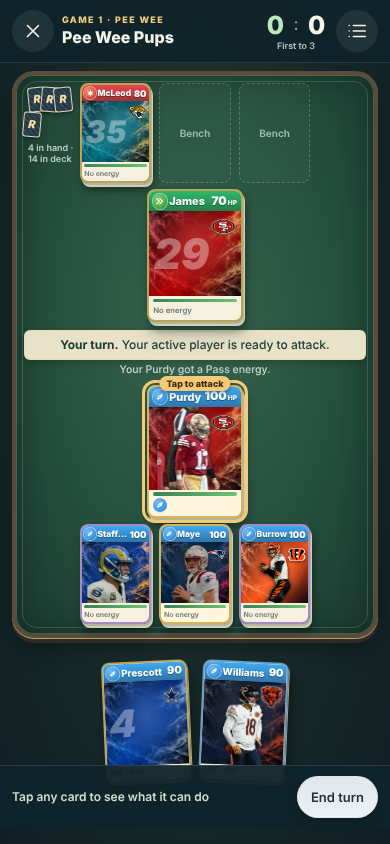
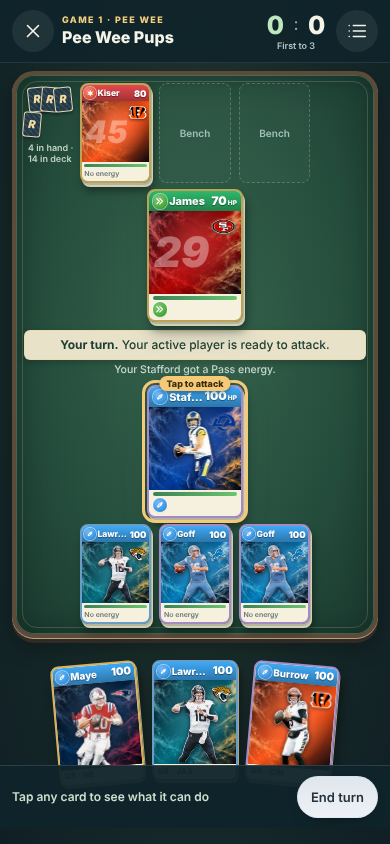
Rivals: Mythic cards on the holographic foil
The highest rarity alone stands on the owner's holographic foil picture,
behind the player (in place of the tinted plasma; team mark, nickname and
streaks kept) and across the card face behind the frame.

Claude-Session: https://claude.ai/code/session_01R9RSfZ7Ej9pPegBL2qV6yU

diff --git a/css/views/dynasty-rarity.css b/css/views/dynasty-rarity.css
@@ -140,15 +140,15 @@
   margin: 1.5cqw .3cqw .8cqw; padding: 2.2cqw 1.5cqw; border-radius: 1cqw;
   background: #fff4d9; box-shadow: inset 0 0 0 .35cqw #aa7d34, 0 .4cqw .5cqw #8f651d30;
 }
-/* Mythic: cosmic artwork continues behind the frame; all rules sit on opaque pearl panels. */
+/* Mythic: the owner's holographic foil (Nov 1 2026) fills the card behind the frame; all rules sit on opaque pearl panels. */
 :where(.v-dynasty, .v-dynasty-battle, .pk-sheet, div.pk-open) .pk-card.pk-rivals-card.r-mythic {
   --card-edge: #675bb0; --card-inner: #c9fff5; --card-shadow: #5442b755; --card-line: #d7d3ff80;
   --card-paper: #252047; --card-panel: #eeeaff; --card-ink: #25213c; --card-muted: #514b6a;
-  --card-scene: url('../../img/rivals/field-mythic.svg');
+  --card-scene: url('../../img/rivals/mythic-holo-v1.webp');
   --card-foil: linear-gradient(120deg, #73d4ff, #d99ce5 13%, #ffc0b0 26%, #ffe7a1 39%, #9af5dd 52%, #a6bdff 65%, #e0a3ef 78%, #a1f1ff 91%);
 }
 :where(.v-dynasty, .v-dynasty-battle, .pk-sheet, div.pk-open) .pk-card.pk-rivals-card.r-mythic .pk-c-face {
-  background: var(--card-scene) 50% 44% / auto 110% no-repeat, #252047;
+  background: url('../../img/rivals/mythic-holo-v1.webp') center / 100% 100% no-repeat, #252047;
 }
 :where(.v-dynasty, .v-dynasty-battle, .pk-sheet, div.pk-open) .pk-card.pk-rivals-card.r-mythic .pk-c-head {
   padding: 1.8cqw 1cqw 1.5cqw; margin: 0 -.8cqw; border-radius: 1.5cqw; background: #f0ecff;
@@ -267,6 +267,12 @@ div.pk-open .pk-card.pk-rivals-card {
 :where(.v-dynasty, .v-dynasty-battle, .pk-sheet, div.pk-open) .pk-card.pk-rivals-card:not(.pk-trainer) .pk-c-art:has([data-team-scene]) {
   background: var(--tp);
 }
+/* A Mythic player stands on the owner's holographic foil instead of the tinted plasma (Nov 1 2026);
+   the team mark, nickname and accent streaks stay on top. */
+:where(.v-dynasty, .v-dynasty-battle, .pk-sheet, div.pk-open) .pk-card.pk-rivals-card.r-mythic .pk-c-scenery[data-team-scene] {
+  background: url('../../img/rivals/mythic-holo-v1.webp') var(--team-focus, center) / cover no-repeat #252047;
+}
+:where(.v-dynasty, .v-dynasty-battle, .pk-sheet, div.pk-open) .pk-card.pk-rivals-card.r-mythic .pk-c-scenery[data-team-scene]::before { content: none; }
 /* The player is the focal point (the owner, Oct 31 2026): a large centred headshot, the team mark a corner badge.
    Headshots sit a little smaller (the owner, Oct 31 2026: "slightly smaller on the basic cards"); action photos keep 100%. */
 :where(.v-dynasty, .v-dynasty-battle, .pk-sheet, div.pk-open) .pk-card.pk-rivals-card:not(.pk-trainer) .pk-c-art:has([data-team-scene]) .pk-c-ph {
@@ -298,7 +304,7 @@ div.pk-open .pk-card.pk-rivals-card {
   text-align: left; text-shadow: 0 .4cqw 1cqw #000, 0 0 2cqw #000; pointer-events: none;
 }
 :where(.v-dynasty, .v-dynasty-battle, .pk-sheet, div.pk-open) .pk-card.pk-rivals-card.r-mythic:has([data-team-scene]) .pk-c-face {
-  background: linear-gradient(135deg, color-mix(in srgb, var(--tp) 70%, #090719), #141027 60%, color-mix(in srgb, var(--ts) 35%, #141027));
+  background: url('../../img/rivals/mythic-holo-v1.webp') center / 100% 100% no-repeat, #252047;
 }
 :where(.v-dynasty, .v-dynasty-battle, .pk-sheet, div.pk-open) .pk-card.pk-rivals-card.pk-trainer .pk-t-art:has([data-team-scene]) {
   background: var(--tp); isolation: isolate;

diff --git a/sw.js b/sw.js
@@ -7,7 +7,7 @@
 // A slow request falls back to whatever is cached under its path (from the previous worker too), so data whose
 // format changes gets a new file name rather than new content under the old one (data/puzzles-v4.json: see
 // js/core/daily.js).
-const CACHE = 'gg-v550';
+const CACHE = 'gg-v551';
 const CORE = ['ui', 'home-navigation', 'data', 'daily', 'fire', 'week', 'nfl', 'stats', 'motw', 'press', 'checks', 'checks-stats', 'checks-pickem', 'checks-press', 'checks-seventeen', 'checks-drill', 'checks-kick', 'return', 'checks-return', 'lay', 'plays', 'laytrack', 'gameday', 'fantasy-live', 'seventeen', 'drill-sim', 'drill', 'kick', 'avatars', 'lpick', 'survivor', 'checks-lpick', 'realm', 'realm-pay', 'realm-active', 'realm-dragons', 'realm-layout', 'realm-battle', 'checks-realm', 'dynasty', 'dynasty-battle', 'dynasty-match', 'dynasty-solo', 'dynasty-real', 'dynasty-legends', 'dynasty-action', 'checks-dynasty'];
 // The tab roots are puzzles, pickem, rivals (Matchup), league, moves (Draft), lay (The Lay) and live (Live). Keepfall opens from Daily Games.
 const VIEWS = ['welcome', 'guest', 'puzzles', 'games', 'game-case', 'board', 'you', 'sharecard', 'results', 'run', 'college', 'silhouette', 'mystery', 'journey', 'grid', 'picker',

diff --git a/CLAUDE.md b/CLAUDE.md
@@ -139,6 +139,10 @@ Rarity finishes follow the owner's card references: type-tinted silver Common, g
 illuminated gold Legendary, and prismatic cosmic Mythic. Keep the name/HP header and framed artwork readable.
 `dynasty-rarity.css` and `img/rivals/` own the materials; `dynasty-foil.js` adds reflections in details and reveals.
 Collection previews stay still, with reduced-motion support. Verify `check-card-layout.cjs`.
+Mythic foil (Nov 1 2026, Evan, with a holographic foil picture: "Use the attached for a background picture for the special
+cards, the highest rarity only"): Mythic cards alone wear `img/rivals/mythic-holo-v1.webp` behind the player in place of the
+tinted plasma (team mark, nickname and streaks stay on top) and as the card face behind the frame (`dynasty-rarity.css`).
+Battle pieces keep their light faces.
 Team backgrounds (October 30, 2026): the owner replaced hometown photos with electric sports-poster graphics,
 inspired by his Ravens/Vikings examples. Every franchise uses its own local logo, team colors, nickname, plasma
 texture and angled accents (`views/dynasty-team-scenes.js`, `img/rivals/team-graphics-v2/`).
